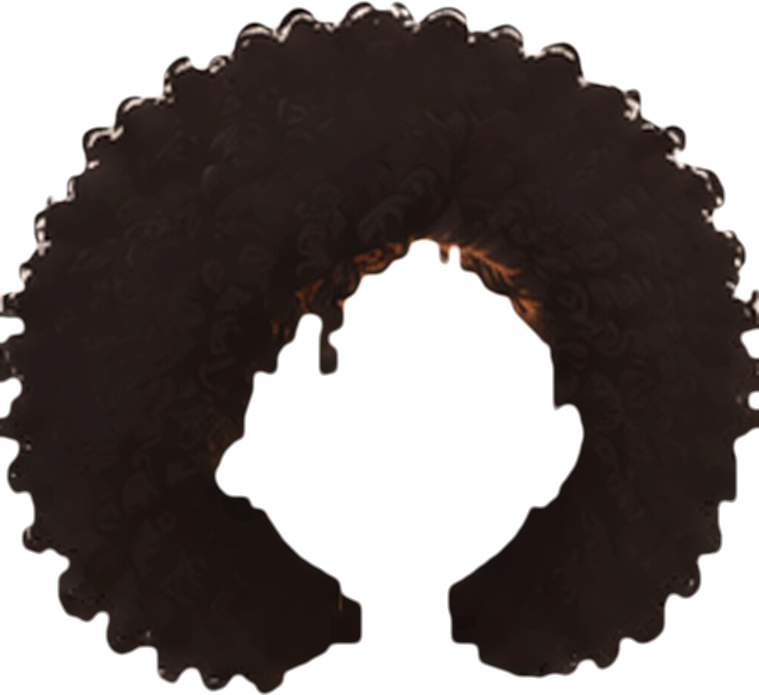
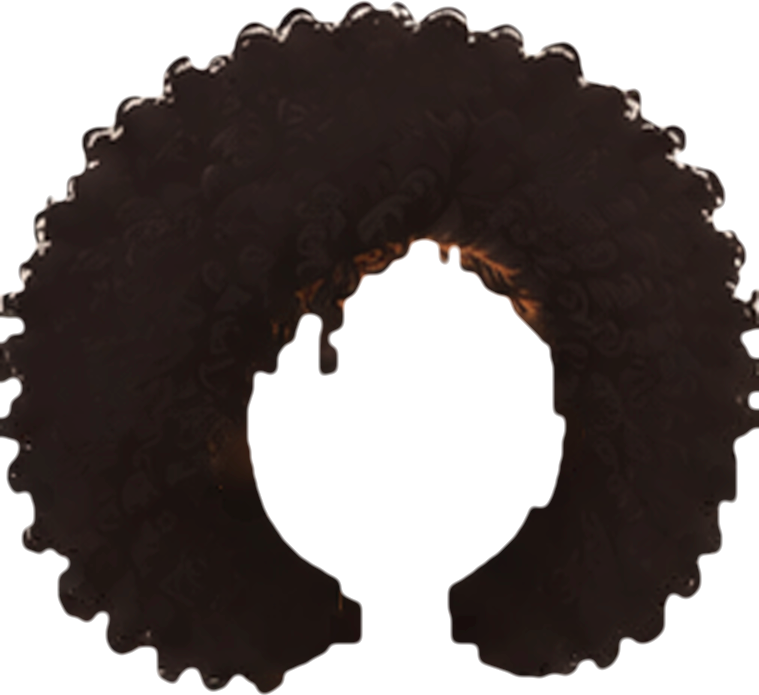
Afro naturel : trous sous les oreilles bouchés
Claude-Session: https://claude.ai/code/session_01Vs8WE84NbYT2qCXEQSttrj

Changed region(s): [[0.2727, 0.5741, 0.3636, 0.7554], [0.7273, 0.5741, 0.7879, 0.7252]]

diff --git a/js/coiffures-art.js b/js/coiffures-art.js
@@ -1,2 +1,2 @@
 /* formes décalquées par tools/traceur-coiffures.py sur docs/references/coiffures/ — ne pas modifier à la main */
-const HAIR_ART={"longs":{"img":[61.76,56.98,276.48,530.04],"lum":[0.079,0.145,0.33],"fcut":[345,136],"main":"#2f2420","back":[["sil","M76.6,307.2 76.4,323.2 73.5,334.3 73.5,350.9 70.5,357.7 70.5,364.1 72.0,368.0 72.2,374.9 75.3,376.5 76.4,378.4 74.9,385.0 324.9,385.0 323.4,378.4 324.5,376.5 327.6,374.9 327.8,368.0 329.3,364.1 329.3,357.7 326.4,350.9 326.4,334.3 323.4,323.2 323.4,308.0 321.8,303.2 78.0,303.2Z","#211815"]],"front":[["sil","","#2f2420"]]},"carrelisse":{"img":[64.24,52.26,260.24,271.92],"lum":[0.075,0.147,0.377],"main":"#29201c","back":[["sil","","#1a1411"]],"front":[["sil","","#29201c"]]},"queuehaute2":{"img":[95.53,4.04,242.49,372.16],"lum":[0.081,0.152,0.38],"ears":1,"main":"#281e1b","back":[["sil","","#1c1613"]],"front":[["sil","","#281e1b"]]},"mechesdevant":{"img":[52.66,40.92,292.88,450.58],"lum":[0.066,0.132,0.372],"main":"#2b211d","back":[["sil","M64.8,297.4 64.8,308.7 61.3,313.7 61.3,317.6 59.6,322.1 59.6,329.7 57.9,334.2 57.9,343.6 56.1,348.1 56.1,353.9 52.7,367.2 52.7,379.7 54.2,381.9 76.9,382.1 76.9,392.1 73.5,405.3 73.5,411.1 71.7,415.7 71.7,423.3 70.0,427.8 70.0,452.7 71.7,457.3 71.9,462.3 76.5,473.3 86.7,483.9 96.9,486.5 103.4,491.3 287.7,491.3 294.2,486.5 299.6,485.7 306.5,482.2 315.0,474.0 320.8,458.8 321.1,448.6 322.8,444.1 322.8,436.5 321.1,431.9 321.1,420.9 319.3,416.3 319.3,407.0 317.6,402.5 317.6,394.9 315.9,390.3 315.9,383.8 343.8,383.6 345.3,381.5 345.3,370.6 343.6,366.1 343.6,362.0 341.9,357.4 341.9,353.3 338.4,340.1 338.4,334.2 334.9,321.0 334.9,311.7 333.2,307.2 333.2,301.3 331.7,297.4Z","#1a1411"]],"front":[["sil","","#2b211d"]]},"frangedroite":{"img":[73.46,44.39,265.15,443.65],"lum":[0.071,0.146,0.373],"main":"#291f1c","back":[["sil","M77.6,297.6 76.9,324.5 75.2,329.0 75.2,340.1 76.9,344.6 76.9,353.7 73.5,358.7 73.5,369.5 76.3,373.7 281.2,374.1 281.4,412.9 283.1,417.4 283.1,449.3 284.9,453.8 285.3,485.0 290.5,487.8 331.0,487.8 338.0,485.0 338.4,471.1 336.7,466.6 336.7,446.9 334.9,442.3 334.9,429.6 333.2,425.0 333.2,415.7 331.5,411.1 331.5,400.1 329.7,395.5 329.7,388.0 328.0,383.4 328.0,356.8 326.3,352.2 326.3,341.2 324.5,336.6 324.5,318.6 322.8,314.1 322.8,299.6 321.9,297.4Z","#191310"]],"front":[["sil","","#291f1c"]]},"chignonhaut2":{"img":[88.56,-28.55,213.5,337.75],"lum":[0.102,0.159,0.406],"ears":1,"main":"#2d241f","back":[["sil","","#241b18"]],"front":[["sil","","#2d241f"]]},"raiecotel":{"img":[45.39,39.7,268.92,446.25],"lum":[0.074,0.142,0.34],"main":"#271f1d","back":[["sil","M62.7,479.8 65.2,483.5 71.5,485.7 126.4,485.7 129.9,483.3 130.3,472.4 125.1,455.5 125.1,451.4 123.3,446.8 123.3,440.9 121.6,436.3 121.6,425.1 119.8,420.5 119.8,407.6 118.1,403.0 118.1,374.4 116.8,370.0 313.0,369.8 314.1,367.8 314.1,351.6 312.3,347.0 312.3,318.4 310.6,313.8 310.6,296.9 58.8,296.9 57.1,302.6 57.1,312.0 55.3,316.6 55.3,324.3 53.6,328.9 53.6,340.0 51.8,344.6 51.8,352.3 50.1,356.9 50.1,362.8 48.3,367.4 48.3,373.3 46.6,377.9 46.6,383.8 44.8,388.4 44.8,391.7 45.7,394.3 60.6,394.5 60.6,404.8 58.8,409.4 58.8,460.8 60.6,465.4 60.6,469.5 62.3,474.1Z","#181412"]],"front":[["sil","","#271f1d"]]},"deuxtresses":{"img":[80.41,47.89,228.48,455.17],"lum":[0.079,0.134,0.364],"ears":1,"main":"#2b221e","back":[["sil","","#1c1613"]],"front":[["sil","","#2b221e"]]},"serretete":{"img":[63.31,42.58,266.87,334.02],"lum":[0.067,0.132,0.354],"acc":1,"main":"#211a17","back":[["sil","M67.1,299.6 66.8,315.3 65.1,319.9 65.1,331.2 63.3,335.8 63.3,345.3 65.1,349.9 65.1,355.9 63.3,360.5 63.3,374.2 64.4,376.2 324.0,376.2 326.9,378.2 328.4,378.0 329.7,376.2 330.0,349.9 328.2,345.3 328.2,327.0 326.4,322.3 326.4,302.2 324.7,296.5 68.4,296.5Z","#16120f"]],"front":[["sil","","#211a17"]]},"barrette":{"img":[57.2,42.54,269.53,306.42],"lum":[0.067,0.141,0.442],"acc":1,"main":"#271e1b","back":[["sil","M57.2,297.8 57.2,307.8 59.0,312.5 59.2,317.6 63.0,329.0 67.9,337.7 82.6,342.2 96.7,344.2 105.8,347.5 115.4,347.5 120.1,349.3 123.7,348.9 125.3,345.8 283.2,345.8 290.6,342.4 305.5,340.2 309.6,337.3 315.8,335.9 318.9,332.6 321.4,325.9 324.5,322.8 324.7,317.9 326.5,313.2 326.5,297.8Z","#17120f"]],"front":[["sil","","#271e1b"]]},"raiemilieu":{"img":[55.52,32.13,284.14,450.5],"lum":[0.067,0.142,0.369],"main":"#281f1b","back":[["sil","M62.8,296.8 62.8,299.8 61.0,304.6 61.0,321.7 59.2,326.4 59.2,341.7 57.3,346.5 57.3,356.3 55.5,361.0 55.5,374.5 56.4,376.8 58.3,378.1 73.7,378.4 73.7,390.9 71.9,395.7 71.9,401.8 70.1,406.6 70.1,412.7 68.3,417.5 68.3,425.5 66.5,430.3 66.5,440.1 64.6,444.8 64.6,458.3 62.8,463.0 62.8,479.9 63.9,481.9 327.8,482.4 329.9,481.3 330.3,468.5 328.5,463.7 328.5,444.8 326.7,440.1 326.7,430.3 324.9,425.5 324.9,419.3 323.0,414.6 323.0,408.4 321.2,403.6 321.2,393.8 319.4,389.1 318.9,379.7 338.8,379.5 339.4,377.2 339.4,357.4 337.6,352.6 337.6,339.2 335.8,334.4 335.8,321.0 334.0,316.2 334.0,306.4 332.2,301.6 332.2,296.8Z","#1b1511"]],"front":[["sil","","#281f1b"]]},"queuelisse":{"img":[87.02,5.23,239.8,369.02],"lum":[0.07,0.142,0.374],"ears":1,"main":"#231b18","back":[["sil","M87.0,297.3 87.0,309.3 88.8,314.0 88.8,339.9 87.0,344.7 87.0,364.9 88.6,367.2 306.5,367.4 316.9,371.5 321.6,375.3 323.9,375.1 326.4,373.0 326.6,364.5 324.8,359.8 324.8,353.7 323.0,348.9 323.0,342.8 321.2,338.1 321.2,332.0 319.4,327.3 319.4,319.4 317.6,314.7 317.6,308.6 315.8,303.9 315.8,297.3Z","#171310"]],"front":[["sil","","#231b18"]]},"bafro":{"img":[-35.38,-42.2,441.59,404.36],"lum":[0.084,0.118,0.456],"main":"#231917","back":[["sil","","#1e1512"]],"front":[["sil","","#231917"]]},"bbantu":{"img":[64.41,16.43,267.67,201.6],"lum":[0.08,0.126,0.397],"ears":1,"main":"#241a17","back":[["sil","","#1e1513"]],"front":[["sil","","#241a17"]]},"bcarre":{"img":[-2.61,34.18,393.98,324.86],"lum":[0.08,0.117,0.406],"main":"#221816","back":[["sil","","#1c1411"]],"front":[["sil","","#221816"]]},"bchignon":{"img":[50.96,-55.67,266.11,266.68],"lum":[0.09,0.13,0.494],"ears":1,"main":"#271c19","back":[["sil","","#211715"]],"front":[["sil","","#271c19"]]},"bpuffs":{"img":[-2.22,-19.51,380.5,324.65],"lum":[0.083,0.122,0.511],"ears":1,"main":"#241a18","back":[["sil","","#1e1513"]],"front":[["sil","","#241a18"]]},"bbox":{"img":[36.18,45.08,305.45,357.81],"lum":[0.066,0.11,0.397],"main":"#261c19","back":[["sil","","#18110f"]],"front":[["sil","","#261c19"]]},"bcollees":{"img":[93.21,46.92,210.07,306.63],"lum":[0.063,0.119,0.512],"ears":1,"main":"#211816","back":[["sil","","#1a1211"]],"front":[["sil","","#211816"]]},"bdemiqueue":{"img":[-4.99,-5.51,384.79,420.41],"lum":[0.074,0.116,0.445],"main":"#211815","back":[["sil","","#1b1210"]],"front":[["sil","","#211815"]]},"bqueue":{"img":[-19.11,-13.87,331.64,450.88],"lum":[0.05,0.101,0.479],"ears":1,"main":"#1b120f","back":[["sil","","#140c0a"]],"front":[["sil","","#1b120f"]]},"blongs":{"img":[-15.94,38.56,410.84,382.62],"lum":[0.075,0.114,0.378],"main":"#261c19","back":[["sil","","#1b1310"]],"front":[["sil","","#261c19"]]},"bchignonhaut":{"img":[54.2,-60.1,265.5,238.46],"lum":[0.045,0.099,0.528],"ears":1,"main":"#1a120f","back":[["sil","","#130b09"]],"front":[["sil","","#1a120f"]]},"bchignonbas":{"img":[2.88,22.15,317.2,322.46],"lum":[0.05,0.107,0.353],"ears":1,"main":"#1e1512","back":[["sil","","#150d0b"]],"front":[["sil","","#1e1512"]]},"btwists":{"img":[44.85,44.74,293.57,371.61],"lum":[0.066,0.11,0.393],"main":"#201614","back":[["sil","","#19110f"]],"front":[["sil","","#201614"]]},"bchignonmeches":{"img":[64.47,-46.78,265.5,320.89],"lum":[0.045,0.109,0.56],"ears":1,"main":"#1c1411","back":[["sil","","#130c0a"]],"front":[["sil","","#1c1411"]]},"bwashgo":{"img":[-14.33,34.03,409.46,330.57],"lum":[0.079,0.111,0.473],"main":"#211715","back":[["sil","","#1c1411"]],"front":[["sil","","#211715"]]},"bfoulard":{"img":[17.63,-15.05,289.29,226.51],"lum":[0.077,0.119,0.521],"acc":1,"ears":1,"main":"#211815","back":[["sil","","#1c1311"]],"front":[["sil","","#211815"]]},"btressesboucles":{"img":[-20.98,37.88,402.54,365.23],"lum":[0.074,0.109,0.442],"main":"#201614","back":[["sil","","#1a1210"]],"front":[["sil","","#201614"]]},"bcourt":{"img":[49.71,4.49,284.72,212.07],"lum":[0.096,0.123,0.417],"ears":1,"main":"#261b19","back":[["sil","","#211815"]],"front":[["sil","","#261b19"]]},"bqueuehaute":{"img":[-47.74,-22.65,369.64,407.31],"lum":[0.048,0.098,0.449],"ears":1,"main":"#1a120f","back":[["sil","","#130c09"]],"front":[["sil","","#1a120f"]]},"btressesarriere":{"img":[4.41,37.45,303.72,347.3],"lum":[0.044,0.096,0.382],"ears":1,"main":"#19110e","back":[["sil","","#120b08"]],"front":[["sil","","#19110e"]]}};
+const HAIR_ART={"longs":{"img":[61.76,56.98,276.48,530.04],"lum":[0.079,0.145,0.33],"fcut":[345,136],"main":"#2f2420","back":[["sil","M76.6,307.2 76.4,323.2 73.5,334.3 73.5,350.9 70.5,357.7 70.5,364.1 72.0,368.0 72.2,374.9 75.3,376.5 76.4,378.4 74.9,385.0 324.9,385.0 323.4,378.4 324.5,376.5 327.6,374.9 327.8,368.0 329.3,364.1 329.3,357.7 326.4,350.9 326.4,334.3 323.4,323.2 323.4,308.0 321.8,303.2 78.0,303.2Z","#211815"]],"front":[["sil","","#2f2420"]]},"carrelisse":{"img":[64.24,52.26,260.24,271.92],"lum":[0.075,0.147,0.377],"main":"#29201c","back":[["sil","","#1a1411"]],"front":[["sil","","#29201c"]]},"queuehaute2":{"img":[95.53,4.04,242.49,372.16],"lum":[0.081,0.152,0.38],"ears":1,"main":"#281e1b","back":[["sil","","#1c1613"]],"front":[["sil","","#281e1b"]]},"mechesdevant":{"img":[52.66,40.92,292.88,450.58],"lum":[0.066,0.132,0.372],"main":"#2b211d","back":[["sil","M64.8,297.4 64.8,308.7 61.3,313.7 61.3,317.6 59.6,322.1 59.6,329.7 57.9,334.2 57.9,343.6 56.1,348.1 56.1,353.9 52.7,367.2 52.7,379.7 54.2,381.9 76.9,382.1 76.9,392.1 73.5,405.3 73.5,411.1 71.7,415.7 71.7,423.3 70.0,427.8 70.0,452.7 71.7,457.3 71.9,462.3 76.5,473.3 86.7,483.9 96.9,486.5 103.4,491.3 287.7,491.3 294.2,486.5 299.6,485.7 306.5,482.2 315.0,474.0 320.8,458.8 321.1,448.6 322.8,444.1 322.8,436.5 321.1,431.9 321.1,420.9 319.3,416.3 319.3,407.0 317.6,402.5 317.6,394.9 315.9,390.3 315.9,383.8 343.8,383.6 345.3,381.5 345.3,370.6 343.6,366.1 343.6,362.0 341.9,357.4 341.9,353.3 338.4,340.1 338.4,334.2 334.9,321.0 334.9,311.7 333.2,307.2 333.2,301.3 331.7,297.4Z","#1a1411"]],"front":[["sil","","#2b211d"]]},"frangedroite":{"img":[73.46,44.39,265.15,443.65],"lum":[0.071,0.146,0.373],"main":"#291f1c","back":[["sil","M77.6,297.6 76.9,324.5 75.2,329.0 75.2,340.1 76.9,344.6 76.9,353.7 73.5,358.7 73.5,369.5 76.3,373.7 281.2,374.1 281.4,412.9 283.1,417.4 283.1,449.3 284.9,453.8 285.3,485.0 290.5,487.8 331.0,487.8 338.0,485.0 338.4,471.1 336.7,466.6 336.7,446.9 334.9,442.3 334.9,429.6 333.2,425.0 333.2,415.7 331.5,411.1 331.5,400.1 329.7,395.5 329.7,388.0 328.0,383.4 328.0,356.8 326.3,352.2 326.3,341.2 324.5,336.6 324.5,318.6 322.8,314.1 322.8,299.6 321.9,297.4Z","#191310"]],"front":[["sil","","#291f1c"]]},"chignonhaut2":{"img":[88.56,-28.55,213.5,337.75],"lum":[0.102,0.159,0.406],"ears":1,"main":"#2d241f","back":[["sil","","#241b18"]],"front":[["sil","","#2d241f"]]},"raiecotel":{"img":[45.39,39.7,268.92,446.25],"lum":[0.074,0.142,0.34],"main":"#271f1d","back":[["sil","M62.7,479.8 65.2,483.5 71.5,485.7 126.4,485.7 129.9,483.3 130.3,472.4 125.1,455.5 125.1,451.4 123.3,446.8 123.3,440.9 121.6,436.3 121.6,425.1 119.8,420.5 119.8,407.6 118.1,403.0 118.1,374.4 116.8,370.0 313.0,369.8 314.1,367.8 314.1,351.6 312.3,347.0 312.3,318.4 310.6,313.8 310.6,296.9 58.8,296.9 57.1,302.6 57.1,312.0 55.3,316.6 55.3,324.3 53.6,328.9 53.6,340.0 51.8,344.6 51.8,352.3 50.1,356.9 50.1,362.8 48.3,367.4 48.3,373.3 46.6,377.9 46.6,383.8 44.8,388.4 44.8,391.7 45.7,394.3 60.6,394.5 60.6,404.8 58.8,409.4 58.8,460.8 60.6,465.4 60.6,469.5 62.3,474.1Z","#181412"]],"front":[["sil","","#271f1d"]]},"deuxtresses":{"img":[80.41,47.89,228.48,455.17],"lum":[0.079,0.134,0.364],"ears":1,"main":"#2b221e","back":[["sil","","#1c1613"]],"front":[["sil","","#2b221e"]]},"serretete":{"img":[63.31,42.58,266.87,334.02],"lum":[0.067,0.132,0.354],"acc":1,"main":"#211a17","back":[["sil","M67.1,299.6 66.8,315.3 65.1,319.9 65.1,331.2 63.3,335.8 63.3,345.3 65.1,349.9 65.1,355.9 63.3,360.5 63.3,374.2 64.4,376.2 324.0,376.2 326.9,378.2 328.4,378.0 329.7,376.2 330.0,349.9 328.2,345.3 328.2,327.0 326.4,322.3 326.4,302.2 324.7,296.5 68.4,296.5Z","#16120f"]],"front":[["sil","","#211a17"]]},"barrette":{"img":[57.2,42.54,269.53,306.42],"lum":[0.067,0.141,0.442],"acc":1,"main":"#271e1b","back":[["sil","M57.2,297.8 57.2,307.8 59.0,312.5 59.2,317.6 63.0,329.0 67.9,337.7 82.6,342.2 96.7,344.2 105.8,347.5 115.4,347.5 120.1,349.3 123.7,348.9 125.3,345.8 283.2,345.8 290.6,342.4 305.5,340.2 309.6,337.3 315.8,335.9 318.9,332.6 321.4,325.9 324.5,322.8 324.7,317.9 326.5,313.2 326.5,297.8Z","#17120f"]],"front":[["sil","","#271e1b"]]},"raiemilieu":{"img":[55.52,32.13,284.14,450.5],"lum":[0.067,0.142,0.369],"main":"#281f1b","back":[["sil","M62.8,296.8 62.8,299.8 61.0,304.6 61.0,321.7 59.2,326.4 59.2,341.7 57.3,346.5 57.3,356.3 55.5,361.0 55.5,374.5 56.4,376.8 58.3,378.1 73.7,378.4 73.7,390.9 71.9,395.7 71.9,401.8 70.1,406.6 70.1,412.7 68.3,417.5 68.3,425.5 66.5,430.3 66.5,440.1 64.6,444.8 64.6,458.3 62.8,463.0 62.8,479.9 63.9,481.9 327.8,482.4 329.9,481.3 330.3,468.5 328.5,463.7 328.5,444.8 326.7,440.1 326.7,430.3 324.9,425.5 324.9,419.3 323.0,414.6 323.0,408.4 321.2,403.6 321.2,393.8 319.4,389.1 318.9,379.7 338.8,379.5 339.4,377.2 339.4,357.4 337.6,352.6 337.6,339.2 335.8,334.4 335.8,321.0 334.0,316.2 334.0,306.4 332.2,301.6 332.2,296.8Z","#1b1511"]],"front":[["sil","","#281f1b"]]},"queuelisse":{"img":[87.02,5.23,239.8,369.02],"lum":[0.07,0.142,0.374],"ears":1,"main":"#231b18","back":[["sil","M87.0,297.3 87.0,309.3 88.8,314.0 88.8,339.9 87.0,344.7 87.0,364.9 88.6,367.2 306.5,367.4 316.9,371.5 321.6,375.3 323.9,375.1 326.4,373.0 326.6,364.5 324.8,359.8 324.8,353.7 323.0,348.9 323.0,342.8 321.2,338.1 321.2,332.0 319.4,327.3 319.4,319.4 317.6,314.7 317.6,308.6 315.8,303.9 315.8,297.3Z","#171310"]],"front":[["sil","","#231b18"]]},"bafro":{"img":[-35.38,-42.2,441.59,404.36],"lum":[0.084,0.118,0.453],"main":"#231917","back":[["sil","","#1e1512"]],"front":[["sil","","#231917"]]},"bbantu":{"img":[64.41,16.43,267.67,201.6],"lum":[0.08,0.126,0.397],"ears":1,"main":"#241a17","back":[["sil","","#1e1513"]],"front":[["sil","","#241a17"]]},"bcarre":{"img":[-2.61,34.18,393.98,324.86],"lum":[0.08,0.117,0.406],"main":"#221816","back":[["sil","","#1c1411"]],"front":[["sil","","#221816"]]},"bchignon":{"img":[50.96,-55.67,266.11,266.68],"lum":[0.09,0.13,0.494],"ears":1,"main":"#271c19","back":[["sil","","#211715"]],"front":[["sil","","#271c19"]]},"bpuffs":{"img":[-2.22,-19.51,380.5,324.65],"lum":[0.083,0.122,0.511],"ears":1,"main":"#241a18","back":[["sil","","#1e1513"]],"front":[["sil","","#241a18"]]},"bbox":{"img":[36.18,45.08,305.45,357.81],"lum":[0.066,0.11,0.397],"main":"#261c19","back":[["sil","","#18110f"]],"front":[["sil","","#261c19"]]},"bcollees":{"img":[93.21,46.92,210.07,306.63],"lum":[0.063,0.119,0.512],"ears":1,"main":"#211816","back":[["sil","","#1a1211"]],"front":[["sil","","#211816"]]},"bdemiqueue":{"img":[-4.99,-5.51,384.79,420.41],"lum":[0.074,0.116,0.445],"main":"#211815","back":[["sil","","#1b1210"]],"front":[["sil","","#211815"]]},"bqueue":{"img":[-19.11,-13.87,331.64,450.88],"lum":[0.05,0.101,0.479],"ears":1,"main":"#1b120f","back":[["sil","","#140c0a"]],"front":[["sil","","#1b120f"]]},"blongs":{"img":[-15.94,38.56,410.84,382.62],"lum":[0.075,0.114,0.378],"main":"#261c19","back":[["sil","","#1b1310"]],"front":[["sil","","#261c19"]]},"bchignonhaut":{"img":[54.2,-60.1,265.5,238.46],"lum":[0.045,0.099,0.528],"ears":1,"main":"#1a120f","back":[["sil","","#130b09"]],"front":[["sil","","#1a120f"]]},"bchignonbas":{"img":[2.88,22.15,317.2,322.46],"lum":[0.05,0.107,0.353],"ears":1,"main":"#1e1512","back":[["sil","","#150d0b"]],"front":[["sil","","#1e1512"]]},"btwists":{"img":[44.85,44.74,293.57,371.61],"lum":[0.066,0.11,0.393],"main":"#201614","back":[["sil","","#19110f"]],"front":[["sil","","#201614"]]},"bchignonmeches":{"img":[64.47,-46.78,265.5,320.89],"lum":[0.045,0.109,0.56],"ears":1,"main":"#1c1411","back":[["sil","","#130c0a"]],"front":[["sil","","#1c1411"]]},"bwashgo":{"img":[-14.33,34.03,409.46,330.57],"lum":[0.079,0.111,0.473],"main":"#211715","back":[["sil","","#1c1411"]],"front":[["sil","","#211715"]]},"bfoulard":{"img":[17.63,-15.05,289.29,226.51],"lum":[0.077,0.119,0.521],"acc":1,"ears":1,"main":"#211815","back":[["sil","","#1c1311"]],"front":[["sil","","#211815"]]},"btressesboucles":{"img":[-20.98,37.88,402.54,365.23],"lum":[0.074,0.109,0.442],"main":"#201614","back":[["sil","","#1a1210"]],"front":[["sil","","#201614"]]},"bcourt":{"img":[49.71,4.49,284.72,212.07],"lum":[0.096,0.123,0.417],"ears":1,"main":"#261b19","back":[["sil","","#211815"]],"front":[["sil","","#261b19"]]},"bqueuehaute":{"img":[-47.74,-22.65,369.64,407.31],"lum":[0.048,0.098,0.449],"ears":1,"main":"#1a120f","back":[["sil","","#130c09"]],"front":[["sil","","#1a120f"]]},"btressesarriere":{"img":[4.41,37.45,303.72,347.3],"lum":[0.044,0.096,0.382],"ears":1,"main":"#19110e","back":[["sil","","#120b08"]],"front":[["sil","","#19110e"]]}};

diff --git a/tools/traceur-coiffures.py b/tools/traceur-coiffures.py
@@ -43,7 +43,8 @@ for i, ids in enumerate([['bafro', 'bbantu', 'bcarre', 'bchignon', 'bpuffs'], ['
     for k in ids: HAIRS[k] = boucle(k, i)
 HAIRS['bbox']['bottom'] = 222
 HAIRS['bfoulard']['accessoire'] = 'foulard'
-HAIRS['bafro']['trous'] = HAIRS['bcarre']['trous'] = [(140, 175, 280, 332), (225, 260, 280, 332)]   # sous la mâchoire, entre les boucles et le cou
+HAIRS['bcarre']['trous'] = [(140, 175, 280, 332), (225, 260, 280, 332)]
+HAIRS['bafro']['trous'] = HAIRS['bcarre']['trous'] + [(75, 125, 195, 280), (275, 325, 195, 280)]   # sous la mâchoire et sous les oreilles
 HAIRS['bchignon']['fin'] = [(60, 128, 70, 205), (272, 340, 70, 205)]   # côtés, des tempes aux oreilles
 HAIRS['bpuffs']['fin'] = [(30, 112, 130, 300), (268, 345, 130, 300)]   # boucles qui pendent devant les oreilles
 HAIRS['bbantu']['fermer'] = [(265, 310, 55, 105)]   # tempe droite, entre les deux nœuds
